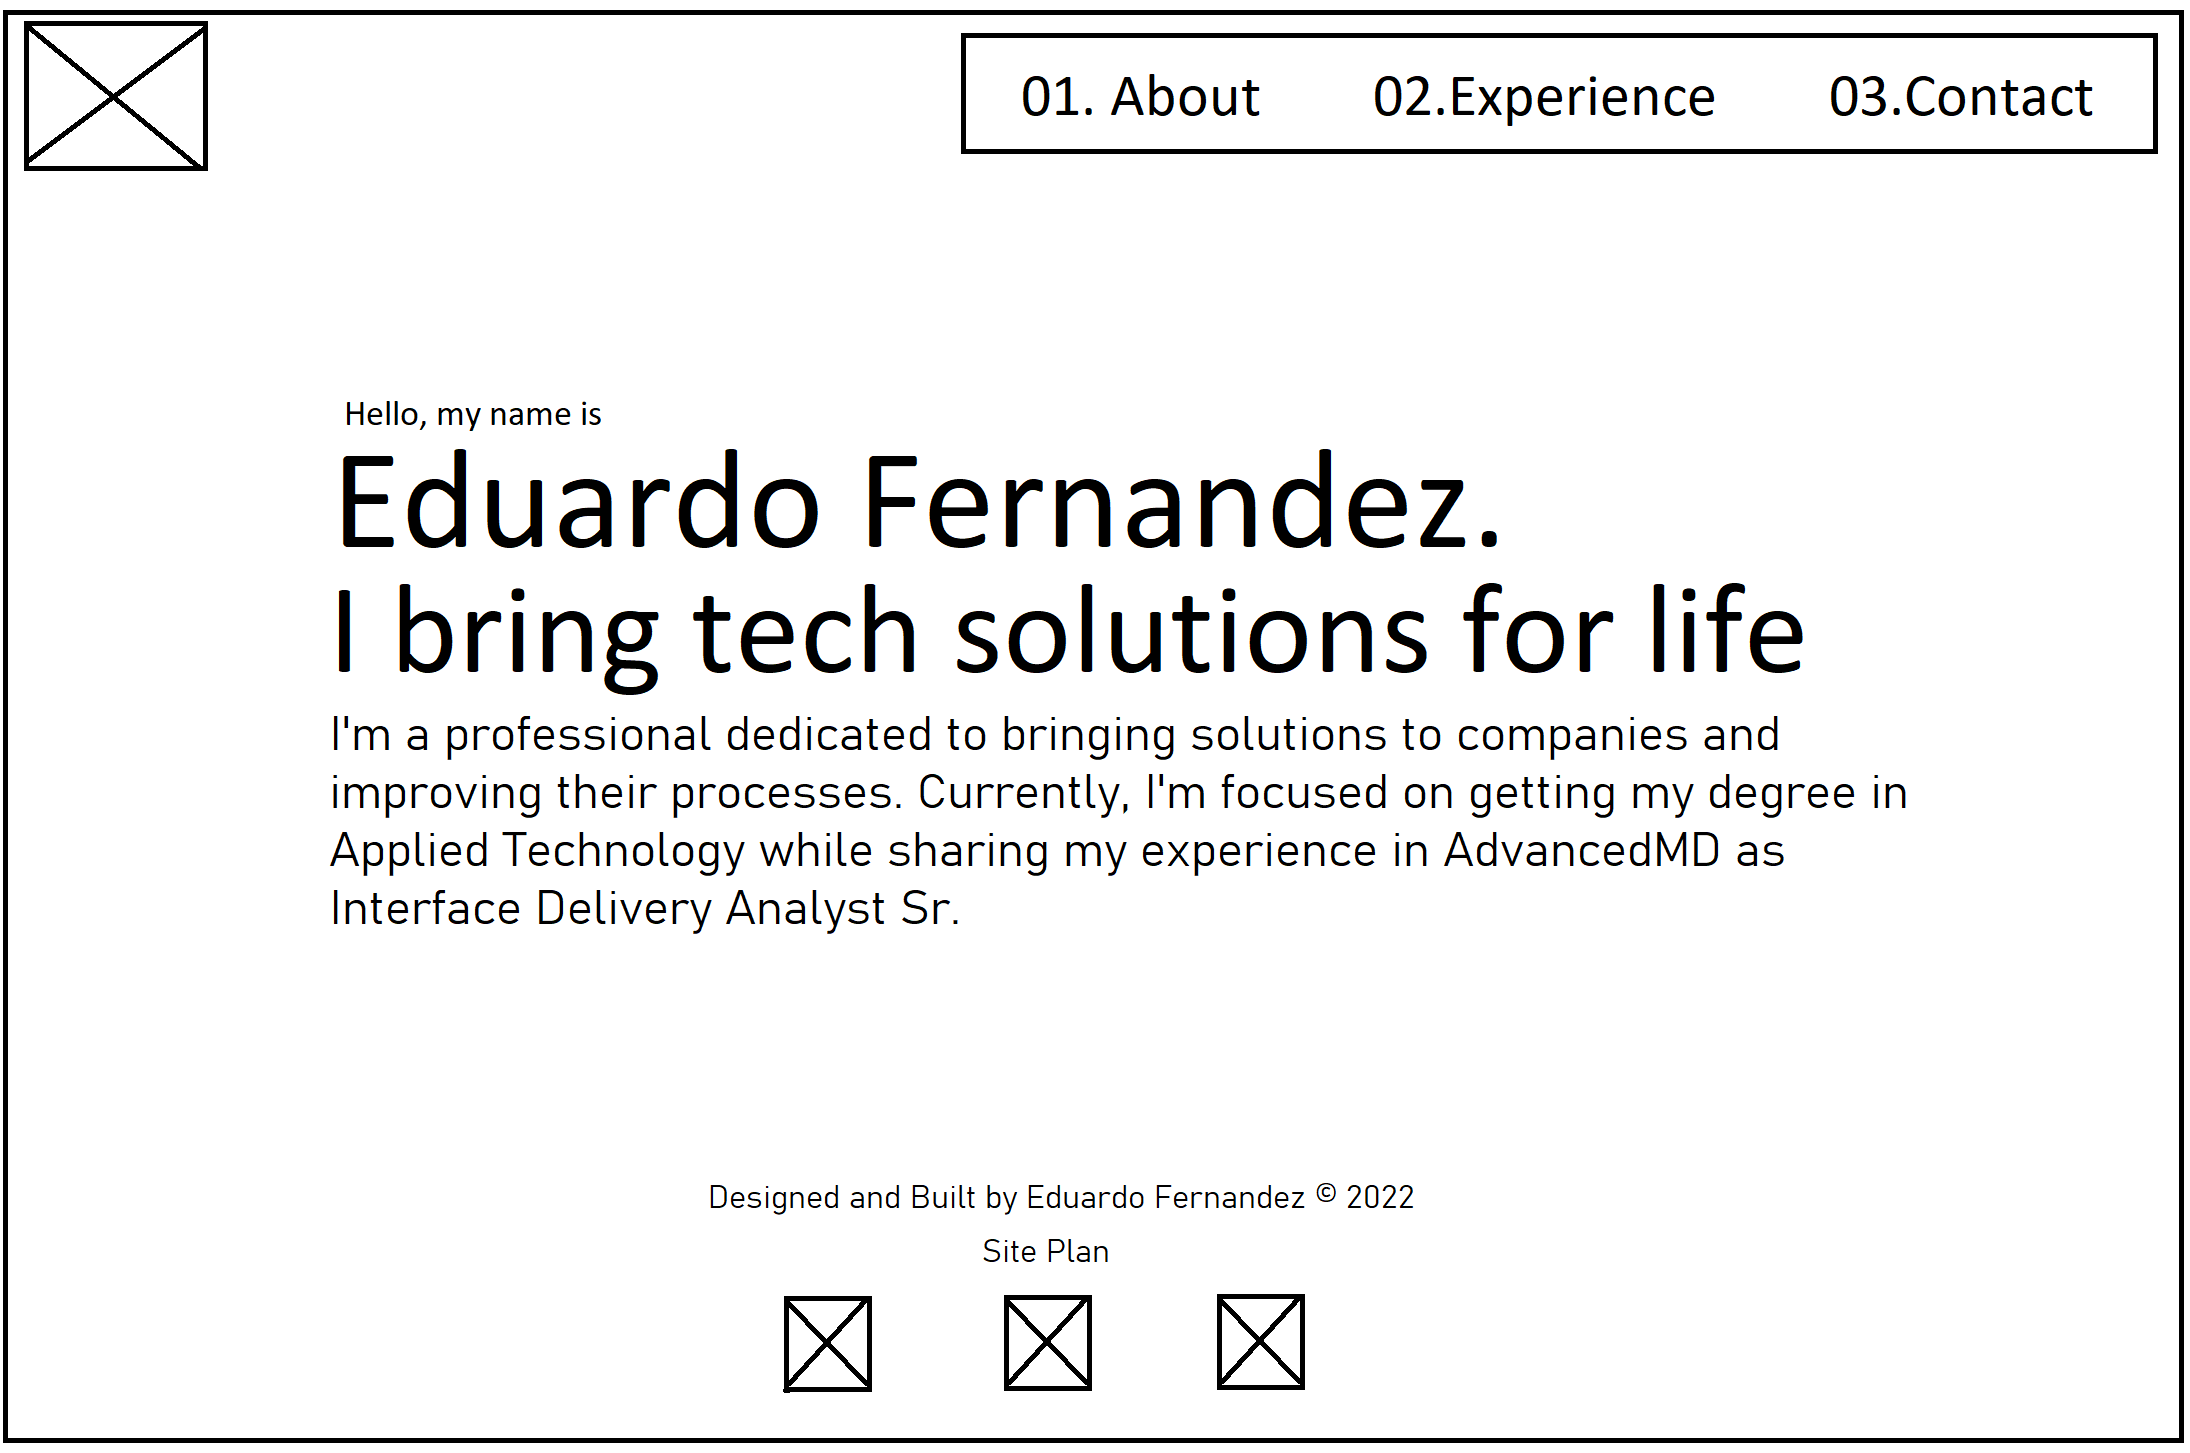
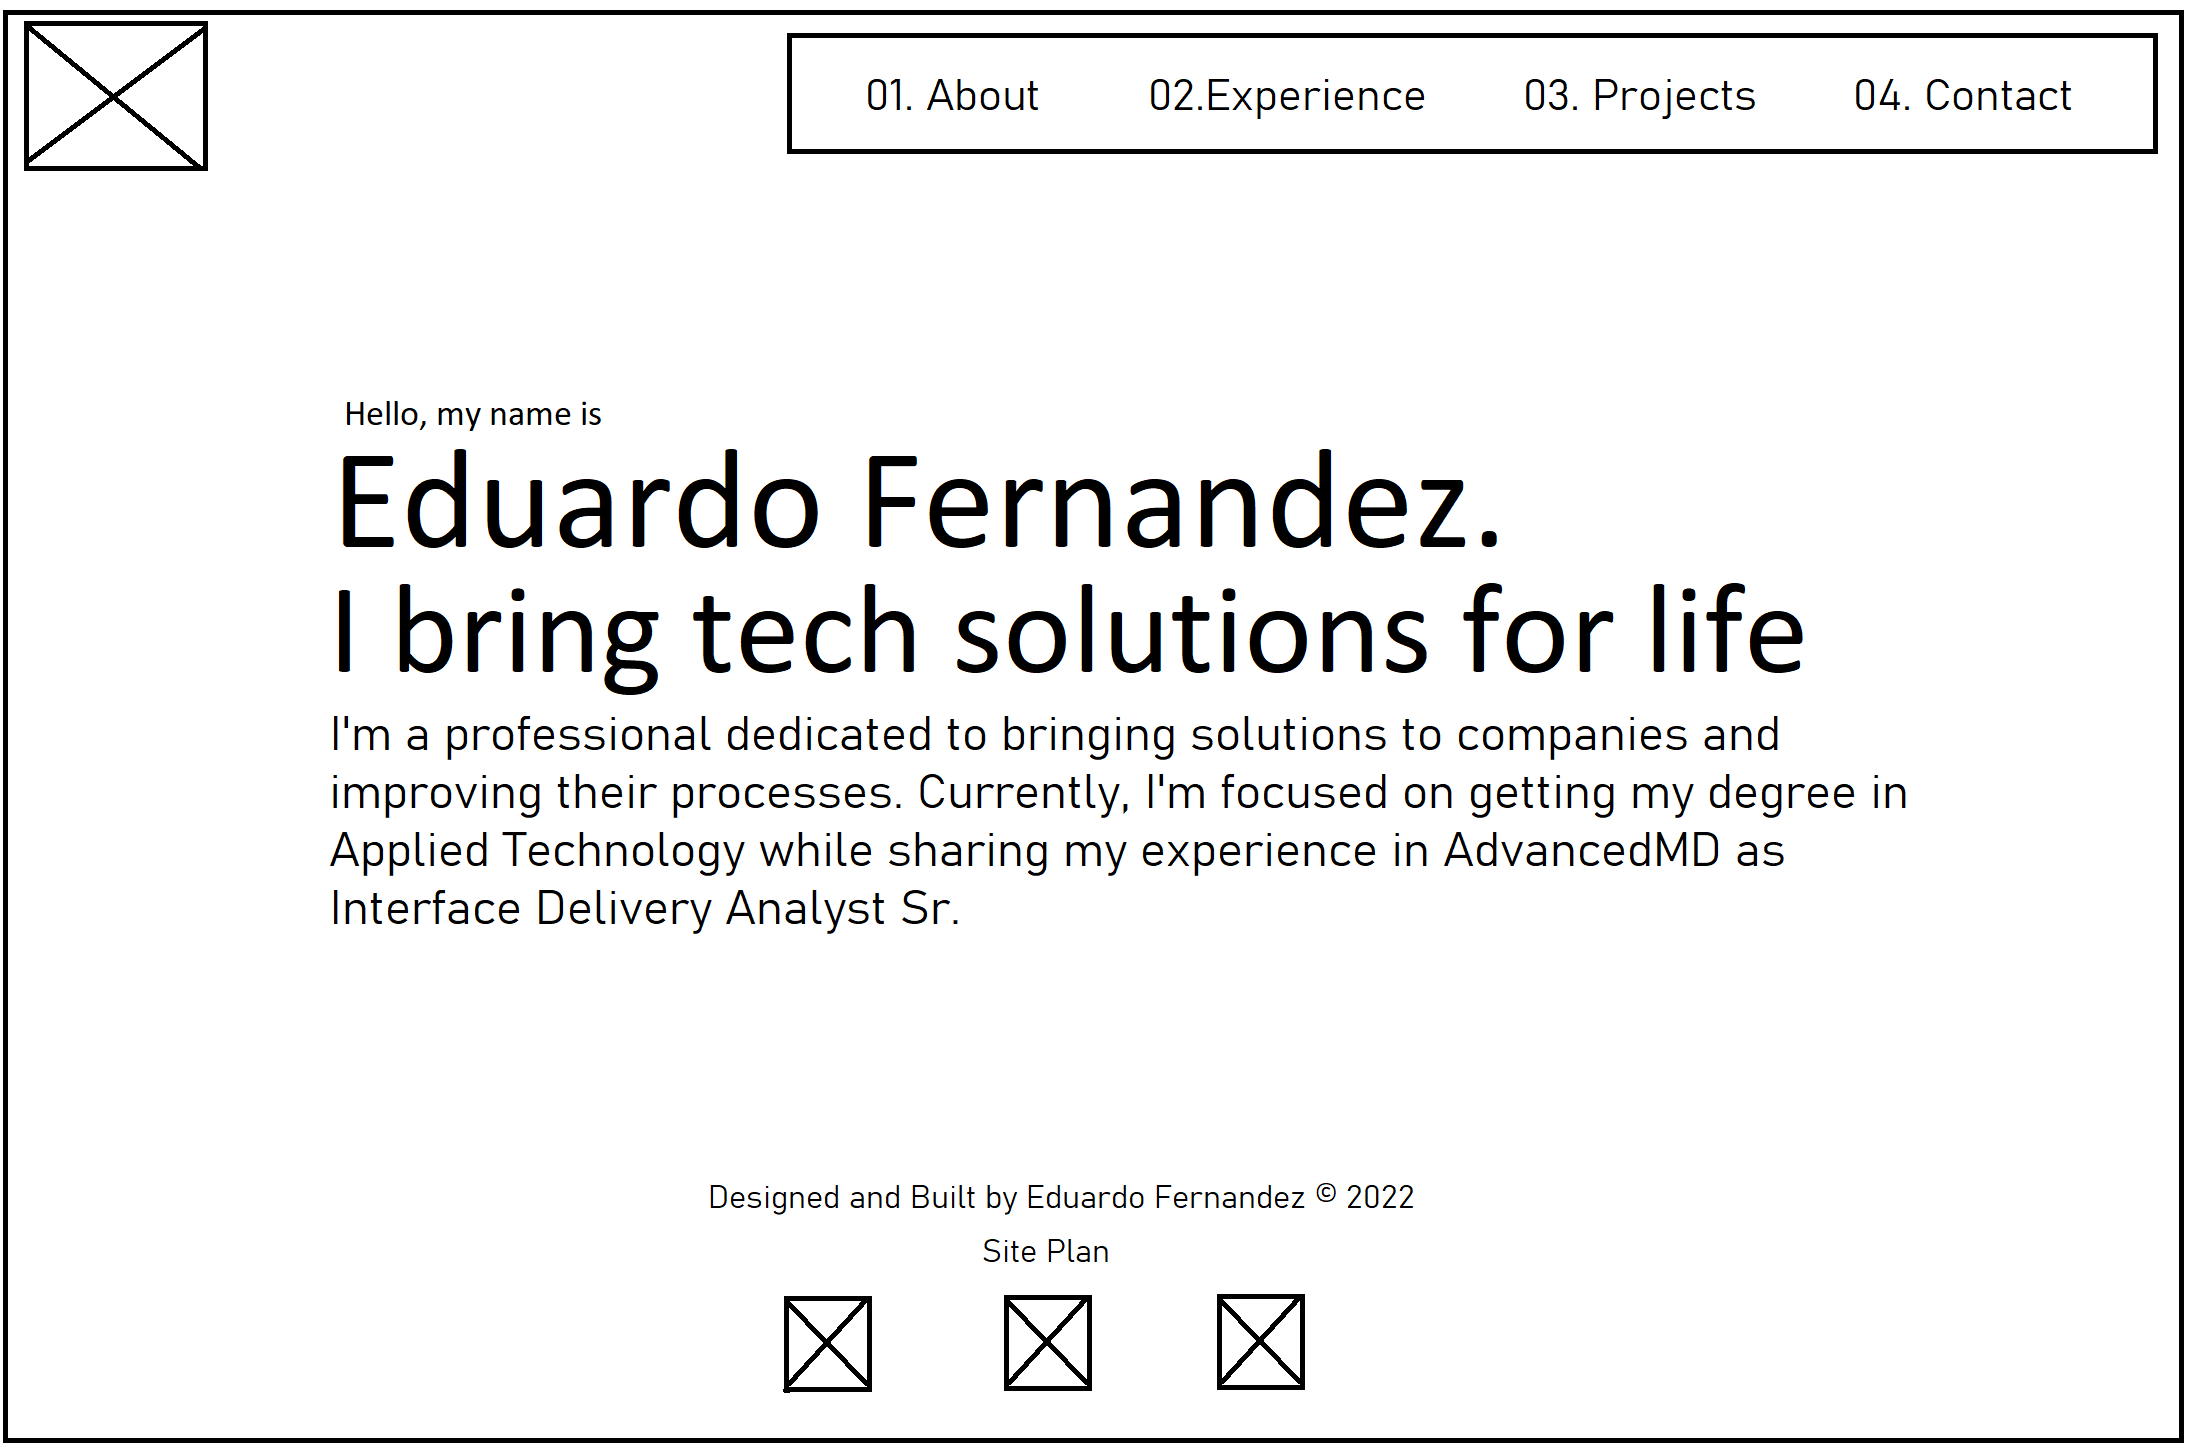
siteplan

Changed region(s): [[0.3726, 0.031, 0.8073, 0.1239], [0.8384, 0.031, 0.9626, 0.0929], [0.3726, 0.0, 0.4347, 0.031]]

diff --git a/personal-site/site-plan.html b/personal-site/site-plan.html
@@ -90,6 +90,7 @@
         <a href="#">Home</a>
         <a href="#">About Me</a>
         <a href="#">Experience</a>
+        <a href="#">Experience</a>
         <a href="#">Contact</a>
         </nav>
       <hr>
@@ -107,6 +108,9 @@
             Experience  <!-- change this -->
         </div>
         <div class="sm-page4">
+            Projects  <!-- change this -->
+      </div>
+        <div class="sm-page5">
             Contact  <!-- change this -->
         </div>
 
@@ -119,7 +123,10 @@
         </div>
         <div class="center">
             &nbsp;
-          </div>
+        </div>
+        <div class="center">
+            &nbsp;
+        </div>
         <div class="right">
           &nbsp;
         </div>
@@ -154,17 +161,7 @@
         schema that not only solved the hardware-forced requirements but also improved processing time 50x faster. Currently, I am working at AdvancedMD as an Interoperability Analyst Sr sharing my experience and helping other developers to 
         interface with our software solutions. During this time, I have been thinking that even though my career had had a big push into the labor field, my tools weren't enough to keep up, that's why I decided to continue my professional 
         formation at BYU-I to learn newer ways to help more entities here in the US. 
-
-        Here are a few technologies/tools I've been working with recently:
-        - Python
-        - HTML
-        - CSS
-        - API (RPC/REST)
-        - PowerScript
-        - SQL
-        - PL/SQL
-        - JavaScript
-        
+       
       </p>
       <p>Images for the Page 2</p>
         <img src="images/profile.jpg" alt="Profile Picture">
@@ -177,37 +174,6 @@
                 • I work primarily with medical practices and software companies to help them to design and integrate their solution to AMD. 
                 • Integrations are made by using our API's and custom ODBC Driver, I help developers to integrate correctly with us.
                 • I have updated our Postman Collection to automate the login redirect calls and improve other calls to be self-constructed automatically using JavaScript. 
-
-        <h2>Freelancer</h2> 
-            Electroperu S.A.
-                Integration and Improvement services (Jul 2022 - Present)
-                    • I integrated the interface between the HR Software and SAP B1.
-                    • I have analyzed security of the HR Software to improve better administrative procedures.
-                    • I have analyzed the Database Server and gave solution to the software speed issues.
-                    • I have trainned users to learn to code on the build-in HR Software formula module.
-                    • I troubleshooted user problems with the software. 
-            Fabrica de Envases S.A.    
-                SAP Integration (Nov 2021 - Jan 2022) 3 mo
-                    • I have executed massive cost center updates on the accounting ERP/SAP integration.
-                    • I have developed 1 on 1 reports between SINPLE/SAP for the accounting comparison
-                    • I have led the execution of going live on the migration SINPLE/SAP for accounting.
-                Abaco Integration (Jan 2022 - Mar 2022) 3 mo
-                    • I developed reports of comparison to check information the ABACO integration.
-                    • I have generated the SQL/JSON accounting scripts for ABACO.
-                Reporting and Accounting Software Integration (Mar 2022 - Apr 2022) 2 mo
-                    • I developed a reporting software that interacts with the SINPLE ERP and Sygnus Payroll software with more than 50 customized PowerBuilder reports. 
-                    • I developed an integration software based on PowerBuilder to facilitate the user interaction when uploading information from excel sheets to the Sygnus Payroll/assistance software
-            Agricola Copacabana de Chincha S.A. 
-                Database Integration (Dec 2019 - Jan 2020) 2 mo
-                    • I designed the integration between the old HR database and the new Software to format and present the old software data on the new one.
-            CREATRA S.A.C. 
-                Server migration to cloud servers.  (Jan 2020 - Feb 2020) 2 mo
-                    • I have led and executed the migration process of all the client/server applications to a new cloud server in order to improve system responses.
-            Hermandad del Señor Crucificado del Rimac 
-                Extranet Development (Jul 2018 - Jul 2019) 1yr
-                    • I made the analysis to develop the extranet website.
-                    • The App has modules for accounting, assistance, reports, and a biometric interface integration.
-                    • The cloud database also interacts with a client/server application developed by me based on PowerBuilder for accountability processes and advanced reporting services.
             
        <h2>Sygnus Consulting S.A.</h2>   
             Application Manager (Jul 2017 - Dec 2021) 4 yrs 6 mos
@@ -244,12 +210,51 @@
 
 
       </p>
-      <p>Images for the Page 3</p>
+
+      <p>Images for the Page 2</p>
         <img src="images/advancedmdlogo.png" alt="AdvancedMD">
         <img src="images/sygnuslogo.jpeg" alt="Sygnus Consulting">
         <img src="images/panoramalogo.jpg" alt="Panorama BPO">
 
-      <h3>03. What's Next?</h3>
+      <h3>03. What projects I've worked on?</h3>
+        <h2>Electroperu S.A.</h2> 
+            Integration and Improvement services (Jul 2022 - Present)
+                • I integrated the interface between the HR Software and SAP B1.
+                • I have analyzed security of the HR Software to improve better administrative procedures.
+                • I have analyzed the Database Server and gave solution to the software speed issues.
+                • I have trainned users to learn to code on the build-in HR Software formula module.
+                • I troubleshooted user problems with the software. 
+        <h2>Fabrica de Envases S.A.</h2>
+            SAP Integration (Nov 2021 - Jan 2022) 3 mo
+                • I have executed massive cost center updates on the accounting ERP/SAP integration.
+                • I have developed 1 on 1 reports between SINPLE/SAP for the accounting comparison
+                • I have led the execution of going live on the migration SINPLE/SAP for accounting.
+            Abaco Integration (Jan 2022 - Mar 2022) 3 mo
+                • I developed reports of comparison to check information the ABACO integration.
+                • I have generated the SQL/JSON accounting scripts for ABACO.
+            Reporting and Accounting Software Integration (Mar 2022 - Apr 2022) 2 mo
+                • I developed a reporting software that interacts with the SINPLE ERP and Sygnus Payroll software with more than 50 customized PowerBuilder reports. 
+                • I developed an integration software based on PowerBuilder to facilitate the user interaction when uploading information from excel sheets to the Sygnus Payroll/assistance software
+        <h2>Agricola Copacabana de Chincha S.A.</h2> 
+            Database Integration (Dec 2019 - Jan 2020) 2 mo
+                • I designed the integration between the old HR database and the new Software to format and present the old software data on the new one.
+        <h2>CREATRA S.A.C.</h2> 
+            Server migration to cloud servers.  (Jan 2020 - Feb 2020) 2 mo
+                • I have led and executed the migration process of all the client/server applications to a new cloud server in order to improve system responses.
+        <h2>Hermandad del Señor Crucificado del Rimac</h2> 
+            Extranet Development (Jul 2018 - Jul 2019) 1yr
+                • I made the analysis to develop the extranet website.
+                • The App has modules for accounting, assistance, reports, and a biometric interface integration.
+                • The cloud database also interacts with a client/server application developed by me based on PowerBuilder for accountability processes and advanced reporting services.
+
+                <p>Images for the Page 3</p>
+                <img src="images/electroperu.jpg" alt="ElectroPeru">
+                <img src="images/agricola.jpg" alt="AgricolaCopacabana">
+                <img src="images/creatra.png" alt="Creatra">
+                <img src="images/HSCR_escudo.png" alt="HSCR">
+                <img src="images/fadesa.jpg" alt="FADESA">
+
+      <h3>04. What's Next?</h3>
       <p>
         <h2>Get in touch</h2>
         Even though I'm not currently looking for any new opportunities, my inbox is always open. Whether you have a question, or proposal or just want to say hi, I’ll try my best to get back to you!
@@ -271,21 +276,26 @@
 
       <h3>[Page 2]</h3>
       <p>         
-        No further detail
+        Simple and concise info
             </p>
       <img src="images/WF2.png" alt="page 2 wireframe">
 
       <h3>[Page 3]</h3>
       <p>         
-        I will try to use an embeded box to display the information according to the option chosen
+        TabBox with JS showing work experience
       </p>
       <img src="images/WF3.png" alt="page 3 wireframe">
 
       <h3>[Page 4]</h3>
       <p>         
-        No further detail.
+        TabBox with JS showing freelance porjects
       </p>
       <img src="images/WF4.png" alt="page 4 wireframe">
+      <h3>[Page 5]</h3>
+      <p>         
+        Contact information with a buttom that sends an email using outlook
+      </p>
+      <img src="images/WF5.png" alt="page 5 wireframe">
     </main>
   </body>
 

diff --git a/personal-site/styles/site-plan.css b/personal-site/styles/site-plan.css
@@ -128,67 +128,72 @@ nav a:hover {
   display: grid;
   justify-content: center;
 
-  grid-template-columns: repeat(8, 10%);
-  grid-template-rows: 3em 1.5em 1.5em 3em;
-  grid-template-areas: ". . . home home . . ."
-    ". . . . top . . ."
-    "left left . center center . right right"
-    "page2 page2 . page3 page3 . page4 page4";
+  grid-template-columns: repeat(12, 8%);
+  grid-template-rows: 3em 1.5em 3em;
+
 }
 .sitemap > div {
-
   text-align: center;
-
 }
 .sm-home {
   grid-area: home;
   background-color: #ccc;
   line-height: 3em;
+  grid-column: 6/8;
+  grid-row: 1/2
 }
 .sm-page2 {
   grid-area: page2;
   background-color: #ccc;
   line-height: 3em;
+  grid-column: 1/3;
 }
 .sm-page3 {
   grid-area: page3;
   background-color: #ccc;
   line-height: 3em;
+  grid-column: 4/6;
 }
 
 .sm-page4 {
     grid-area: page4;
     background-color: #ccc;
     line-height: 3em;
+    grid-column: 8/10;
   }
 
-.top {
-  grid-area: top;
-  border-left: 1px solid;
+.sm-page5 {
+  grid-area: page5;
+  background-color: #ccc;
+  line-height: 3em;
+  grid-column: 11/13;
+}
 
+.top {
+  border-left: 1px solid;
+ grid-column: 7/8;
+ grid-row: 2/3;
 }
 
 .left {
-  grid-area: left;
   border-top: 1px solid;
   border-left: 1px solid;
   grid-column: 2/5;
   grid-row: 3/4;
- 
 }
 
 .center {
-    grid-area: center;
     border-top: 1px solid;
     border-left: 1px solid;
-    grid-column: 5/6;
+    border-right: 1px solid;
+    grid-column: 5/9;
     grid-row: 3/4;
   }
 
+
 .right {
-  grid-area: right;
   border-top: 1px solid;
   border-right: 1px solid;
-  grid-column: 6/8;
+  grid-column: 9/12;
   grid-row: 3/4;
 }
